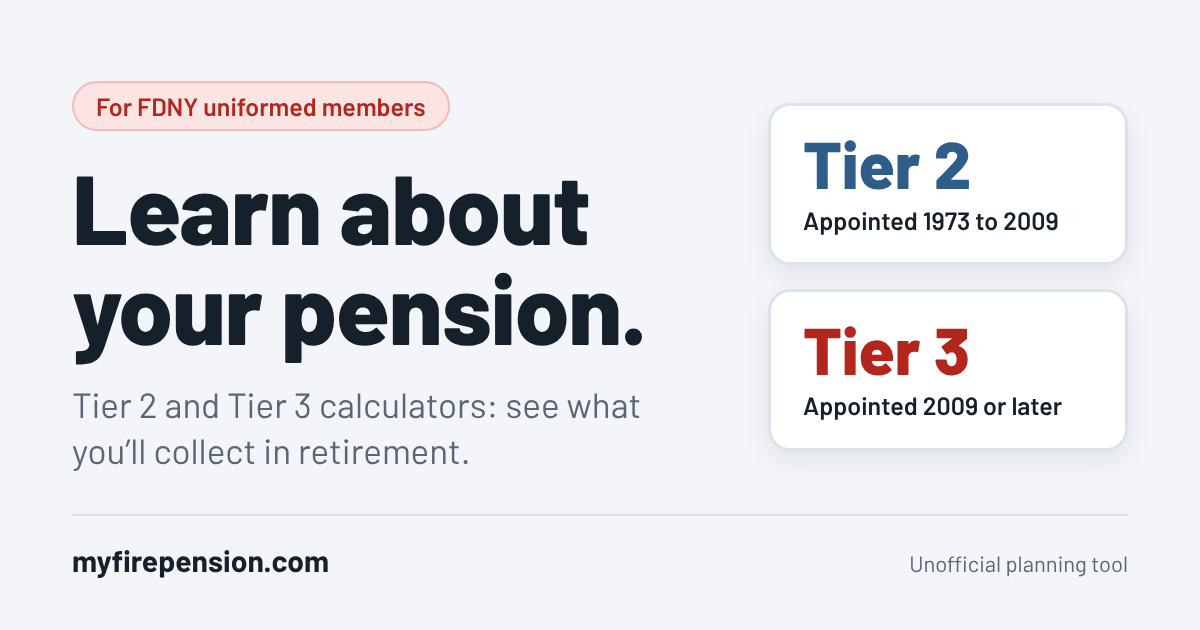
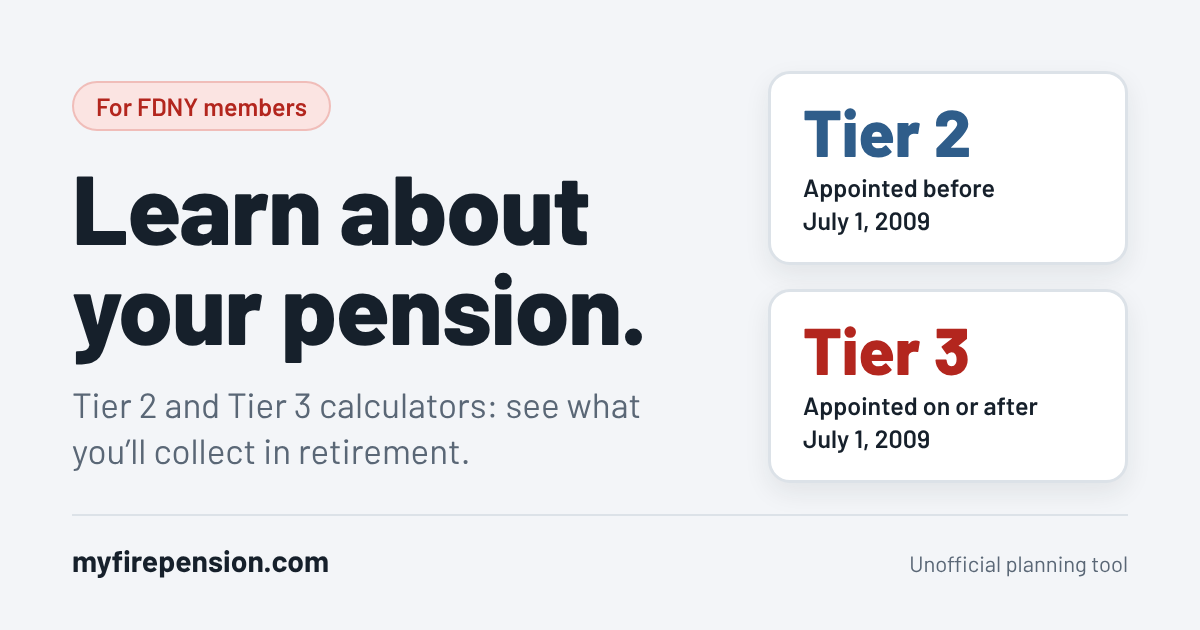
Link previews: match the tier dates and chip to the site (v2.72)
Claude-Session: https://claude.ai/code/session_019rsa7DiXJzH9oBiW284xpR

diff --git a/tier3/index.html b/tier3/index.html
@@ -13,7 +13,7 @@
 <meta property="og:title" content="FDNY Tier 3 Pension · My Fire Pension">
 <meta property="og:description" content="Unofficial guide and calculators for FDNY Tier 3 members: half pay at 20, escalation, the longevity bonus and the VSF.">
 <meta property="og:url" content="https://myfirepension.com/tier3/">
-<meta property="og:image" content="https://myfirepension.com/preview-tier3.png?v=2">
+<meta property="og:image" content="https://myfirepension.com/preview-tier3.png?v=3">
 <meta property="og:image:width" content="1200">
 <meta property="og:image:height" content="630">
 <meta property="og:image:alt" content="Tier 3 pension calculator">
@@ -641,7 +641,7 @@ body.has-pbar .app{padding-bottom:110px}
 <main class="view" id="v-home" data-title="FDNY Tier 3 Pension">
   <div class="hometop"><a class="backbtn" href="/"><svg class="i" viewBox="0 0 24 24"><path d="M3.5 11 12 4l8.5 7"/><path d="M5.5 9.5V20h13V9.5"/><path d="M10 20v-5.5h4V20"/></svg>Home</a>
     <details class="news">
-      <summary>Version <b>2.71</b> <span class="lfull">(click for updates)</span><span class="lshort">(updates)</span></summary>
+      <summary>Version <b>2.72</b> <span class="lfull">(click for updates)</span><span class="lshort">(updates)</span></summary>
       <div class="newsbody">
       <ul>
         <li><time datetime="2026-11-11">11/11/26:</time> Your equated date can now be later than your appointment date. This may apply to members who took LWOP or other extended leaves.</li>
@@ -705,7 +705,7 @@ body.has-pbar .app{padding-bottom:110px}
 
 <!-- ===================== BASICS ===================== -->
 <main class="view" id="v-basics" data-title="Pension basics · FDNY Tier 3" hidden>
-  <div class="topbar"><a class="backbtn" href="#home"><svg class="i" viewBox="0 0 24 24"><path d="M15 6l-6 6 6 6"/></svg>Home</a><span class="tb-title">Pension basics</span><a class="ver" href="/updates/">Version <b>2.71</b> (click for updates)</a></div>
+  <div class="topbar"><a class="backbtn" href="#home"><svg class="i" viewBox="0 0 24 24"><path d="M15 6l-6 6 6 6"/></svg>Home</a><span class="tb-title">Pension basics</span><a class="ver" href="/updates/">Version <b>2.72</b> (click for updates)</a></div>
   <div class="vhead"><h1>Pension basics <span class="tierb" style="--c:var(--accent)">Tier 3</span></h1></div>
 
   <ul class="keys">
@@ -842,7 +842,7 @@ body.has-pbar .app{padding-bottom:110px}
 
 <!-- ===================== BILLS ===================== -->
 <main class="view" id="v-bills" data-title="Bills in Albany · FDNY Tier 3" hidden>
-  <div class="topbar"><a class="backbtn" href="#home"><svg class="i" viewBox="0 0 24 24"><path d="M15 6l-6 6 6 6"/></svg>Home</a><span class="tb-title">Bills in Albany</span><a class="ver" href="/updates/">Version <b>2.71</b> (click for updates)</a></div>
+  <div class="topbar"><a class="backbtn" href="#home"><svg class="i" viewBox="0 0 24 24"><path d="M15 6l-6 6 6 6"/></svg>Home</a><span class="tb-title">Bills in Albany</span><a class="ver" href="/updates/">Version <b>2.72</b> (click for updates)</a></div>
   <div class="vhead"><h1>Bills in Albany <span class="tierb" style="--c:var(--accent)">Tier 3</span></h1><p>Changes to Tier 3 pensions that are being proposed, voted on, or recently passed. A bill becomes law only after the Senate and the Assembly pass it and the governor signs it.</p><p class="hint checked">Status last checked Nov. 5, 2026.</p></div>
   <section class="billgroup" aria-labelledby="bgNow"><h2 id="bgNow">Being considered</h2><div class="bills-list" id="billsNow"></div></section>
   <section class="billgroup" aria-labelledby="bgLaw"><h2 id="bgLaw">Signed into law</h2><div class="bills-list" id="billsLaw"></div></section>
@@ -851,7 +851,7 @@ body.has-pbar .app{padding-bottom:110px}
 
 <!-- ===================== QUICK ===================== -->
 <main class="view" id="v-quick" data-title="Quick calculator · FDNY Tier 3" hidden>
-  <div class="topbar"><a class="backbtn" href="#home"><svg class="i" viewBox="0 0 24 24"><path d="M15 6l-6 6 6 6"/></svg>Home</a><span class="tb-title">Quick calculator</span><a class="ver" href="/updates/">Version <b>2.71</b> (click for updates)</a></div>
+  <div class="topbar"><a class="backbtn" href="#home"><svg class="i" viewBox="0 0 24 24"><path d="M15 6l-6 6 6 6"/></svg>Home</a><span class="tb-title">Quick calculator</span><a class="ver" href="/updates/">Version <b>2.72</b> (click for updates)</a></div>
   <div class="vhead"><h1>Quick calculator <span class="tierb" style="--c:var(--accent)">Tier 3</span></h1><p>Enter your final average salary and your years on the job. That's it.</p></div>
   <div class="qgrid">
     <div class="card calc qa1">
@@ -872,7 +872,7 @@ body.has-pbar .app{padding-bottom:110px}
 
 <!-- ===================== PERSONAL ===================== -->
 <main class="view" id="v-personal" data-title="Your personal numbers · FDNY Tier 3" hidden>
-  <div class="topbar"><a class="backbtn" href="#home"><svg class="i" viewBox="0 0 24 24"><path d="M15 6l-6 6 6 6"/></svg>Home</a><span class="tb-title">Your personal numbers</span><a class="ver" href="/updates/">Version <b>2.71</b> (click for updates)</a></div>
+  <div class="topbar"><a class="backbtn" href="#home"><svg class="i" viewBox="0 0 24 24"><path d="M15 6l-6 6 6 6"/></svg>Home</a><span class="tb-title">Your personal numbers</span><a class="ver" href="/updates/">Version <b>2.72</b> (click for updates)</a></div>
   <div class="vhead"><h1>Your personal numbers <span class="tierb" style="--c:var(--accent)">Tier 3</span></h1><p>Use your real earnings to see what you'll collect, when, and how it grows.</p></div>
   <section class="card preview" id="preview" aria-labelledby="pvh" hidden>
     <p class="pvline" id="pvh">Fill in the 3 steps below to see what your pension will be and how it changes over time. Your results show up <span class="pv-ph">after step 3</span><span class="pv-dt">on the right</span>.</p>

diff --git a/tier2/index.html b/tier2/index.html
@@ -13,7 +13,7 @@
 <meta property="og:title" content="FDNY Tier 2 Pension · My Fire Pension">
 <meta property="og:description" content="Unofficial guide and calculators for FDNY Tier 2 members: half pay at 20, the 1/60th, ITHP and the VSF.">
 <meta property="og:url" content="https://myfirepension.com/tier2/">
-<meta property="og:image" content="https://myfirepension.com/preview-tier2.png?v=2">
+<meta property="og:image" content="https://myfirepension.com/preview-tier2.png?v=3">
 <meta property="og:image:width" content="1200">
 <meta property="og:image:height" content="630">
 <meta property="og:image:alt" content="Tier 2 pension calculator">
@@ -640,7 +640,7 @@ body.has-pbar .app{padding-bottom:110px}
 <main class="view" id="v-home" data-title="FDNY Tier 2 Pension">
   <div class="hometop"><a class="backbtn" href="/"><svg class="i" viewBox="0 0 24 24"><path d="M3.5 11 12 4l8.5 7"/><path d="M5.5 9.5V20h13V9.5"/><path d="M10 20v-5.5h4V20"/></svg>Home</a>
     <details class="news">
-      <summary>Version <b>2.71</b> <span class="lfull">(click for updates)</span><span class="lshort">(updates)</span></summary>
+      <summary>Version <b>2.72</b> <span class="lfull">(click for updates)</span><span class="lshort">(updates)</span></summary>
       <div class="newsbody">
       <ul>
         <li><time datetime="2026-11-11">11/11/26:</time> Your equated date can now be later than your appointment date. This may apply to members who took LWOP or other extended leaves.</li>
@@ -704,7 +704,7 @@ body.has-pbar .app{padding-bottom:110px}
 
 <!-- ===================== BASICS ===================== -->
 <main class="view" id="v-basics" data-title="Pension basics · FDNY Tier 2" hidden>
-  <div class="topbar"><a class="backbtn" href="#home"><svg class="i" viewBox="0 0 24 24"><path d="M15 6l-6 6 6 6"/></svg>Home</a><span class="tb-title">Pension basics</span><a class="ver" href="/updates/">Version <b>2.71</b> (click for updates)</a></div>
+  <div class="topbar"><a class="backbtn" href="#home"><svg class="i" viewBox="0 0 24 24"><path d="M15 6l-6 6 6 6"/></svg>Home</a><span class="tb-title">Pension basics</span><a class="ver" href="/updates/">Version <b>2.72</b> (click for updates)</a></div>
   <div class="vhead"><h1>Pension basics <span class="tierb" style="--c:var(--steel)">Tier 2</span></h1></div>
 
   <ul class="keys">
@@ -853,7 +853,7 @@ body.has-pbar .app{padding-bottom:110px}
 
 <!-- ===================== BILLS ===================== -->
 <main class="view" id="v-bills" data-title="Bills in Albany · FDNY Tier 2" hidden>
-  <div class="topbar"><a class="backbtn" href="#home"><svg class="i" viewBox="0 0 24 24"><path d="M15 6l-6 6 6 6"/></svg>Home</a><span class="tb-title">Bills in Albany</span><a class="ver" href="/updates/">Version <b>2.71</b> (click for updates)</a></div>
+  <div class="topbar"><a class="backbtn" href="#home"><svg class="i" viewBox="0 0 24 24"><path d="M15 6l-6 6 6 6"/></svg>Home</a><span class="tb-title">Bills in Albany</span><a class="ver" href="/updates/">Version <b>2.72</b> (click for updates)</a></div>
   <div class="vhead"><h1>Bills in Albany <span class="tierb" style="--c:var(--steel)">Tier 2</span></h1><p>Changes to Tier 2 pensions that are being proposed, voted on, or recently passed. A bill becomes law only after the Senate and the Assembly pass it and the governor signs it.</p><p class="hint checked">Status last checked Nov. 5, 2026.</p></div>
   <section class="billgroup" aria-labelledby="bgNow"><h2 id="bgNow">Being considered</h2><div class="bills-list" id="billsNow"></div></section>
   <section class="billgroup" aria-labelledby="bgLaw"><h2 id="bgLaw">Signed into law</h2><div class="bills-list" id="billsLaw"></div></section>
@@ -862,7 +862,7 @@ body.has-pbar .app{padding-bottom:110px}
 
 <!-- ===================== QUICK ===================== -->
 <main class="view" id="v-quick" data-title="Quick calculator · FDNY Tier 2" hidden>
-  <div class="topbar"><a class="backbtn" href="#home"><svg class="i" viewBox="0 0 24 24"><path d="M15 6l-6 6 6 6"/></svg>Home</a><span class="tb-title">Quick calculator</span><a class="ver" href="/updates/">Version <b>2.71</b> (click for updates)</a></div>
+  <div class="topbar"><a class="backbtn" href="#home"><svg class="i" viewBox="0 0 24 24"><path d="M15 6l-6 6 6 6"/></svg>Home</a><span class="tb-title">Quick calculator</span><a class="ver" href="/updates/">Version <b>2.72</b> (click for updates)</a></div>
   <div class="vhead"><h1>Quick calculator <span class="tierb" style="--c:var(--steel)">Tier 2</span></h1><p>Enter your final average salary and your years on the job. That's it.</p></div>
   <div class="qgrid">
     <div class="card calc qa1">
@@ -897,7 +897,7 @@ body.has-pbar .app{padding-bottom:110px}
 
 <!-- ===================== PERSONAL ===================== -->
 <main class="view" id="v-personal" data-title="Your personal numbers · FDNY Tier 2" hidden>
-  <div class="topbar"><a class="backbtn" href="#home"><svg class="i" viewBox="0 0 24 24"><path d="M15 6l-6 6 6 6"/></svg>Home</a><span class="tb-title">Your personal numbers</span><a class="ver" href="/updates/">Version <b>2.71</b> (click for updates)</a></div>
+  <div class="topbar"><a class="backbtn" href="#home"><svg class="i" viewBox="0 0 24 24"><path d="M15 6l-6 6 6 6"/></svg>Home</a><span class="tb-title">Your personal numbers</span><a class="ver" href="/updates/">Version <b>2.72</b> (click for updates)</a></div>
   <div class="vhead"><h1>Your personal numbers <span class="tierb" style="--c:var(--steel)">Tier 2</span></h1><p>Use your real earnings to see what you'll collect, and what working longer gets you.</p></div>
   <section class="card preview" id="preview" aria-labelledby="pvh" hidden>
     <p class="pvline" id="pvh">Fill in the 3 steps below to see what your pension will be and how it changes over time. Your results show up <span class="pv-ph">after step 3</span><span class="pv-dt">on the right</span>.</p>

diff --git a/index.html b/index.html
@@ -13,7 +13,7 @@
 <meta property="og:title" content="My Fire Pension">
 <meta property="og:description" content="Unofficial Tier 2 and Tier 3 pension calculators for FDNY members: how your pension works and what you’ll collect in retirement.">
 <meta property="og:url" content="https://myfirepension.com/">
-<meta property="og:image" content="https://myfirepension.com/preview.png?v=2">
+<meta property="og:image" content="https://myfirepension.com/preview.png?v=3">
 <meta property="og:image:width" content="1200">
 <meta property="og:image:height" content="630">
 <meta property="og:image:alt" content="My Fire Pension: Tier 2 and Tier 3 calculators">
@@ -106,7 +106,7 @@ svg.i{width:24px;height:24px;fill:none;stroke:currentColor;stroke-width:2;stroke
   <div class="hometop">
     <span class="chip">For FDNY members</span>
     <details class="news">
-      <summary>Version <b>2.71</b> <span class="lfull">(click for updates)</span><span class="lshort">(updates)</span></summary>
+      <summary>Version <b>2.72</b> <span class="lfull">(click for updates)</span><span class="lshort">(updates)</span></summary>
       <div class="newsbody">
       <ul>
         <li><time datetime="2026-11-11">11/11/26:</time> Your equated date can now be later than your appointment date. This may apply to members who took LWOP or other extended leaves.</li>

diff --git a/suggest/index.html b/suggest/index.html
@@ -106,7 +106,7 @@ a.ver{text-decoration:none}
 </head>
 <body>
 <main class="app">
-  <div class="top"><a class="backbtn" href="/"><svg class="i" viewBox="0 0 24 24"><path d="M15 6l-6 6 6 6"/></svg>Home</a><a class="ver" href="/updates/">Version <b>2.71</b> (click for updates)</a></div>
+  <div class="top"><a class="backbtn" href="/"><svg class="i" viewBox="0 0 24 24"><path d="M15 6l-6 6 6 6"/></svg>Home</a><a class="ver" href="/updates/">Version <b>2.72</b> (click for updates)</a></div>
   <section class="card ask" aria-labelledby="askTitle">
     <h1 id="askTitle">What else would you like to see here?</h1>
     <p>This is a work in progress and I'm happy to add what people want. Send your questions or suggestions.</p>

diff --git a/updates/index.html b/updates/index.html
@@ -111,7 +111,7 @@ button,input,select,textarea{font:inherit;color:inherit}
 </head>
 <body>
 <main class="app">
-  <div class="top"><a class="backbtn" href="/"><svg class="i" viewBox="0 0 24 24"><path d="M15 6l-6 6 6 6"/></svg>Home</a><span class="ver">Version <b>2.71</b></span></div>
+  <div class="top"><a class="backbtn" href="/"><svg class="i" viewBox="0 0 24 24"><path d="M15 6l-6 6 6 6"/></svg>Home</a><span class="ver">Version <b>2.72</b></span></div>
   <section class="card upd" aria-labelledby="updTitle">
     <h1 id="updTitle">Updates and fixes</h1>
     <p class="hint">This website gets better every day. Newest first.</p>

diff --git a/404.html b/404.html
@@ -75,7 +75,7 @@ a.ver{text-decoration:none}
 </head>
 <body>
 <main class="app">
-  <div class="top404"><a class="ver" href="/updates/">Version <b>2.71</b> (click for updates)</a></div>
+  <div class="top404"><a class="ver" href="/updates/">Version <b>2.72</b> (click for updates)</a></div>
   <section class="lost">
     <span class="box"><svg class="i" viewBox="0 0 24 24"><path d="M12 3c3 3.5 6 6.5 6 10.5a6 6 0 0 1-12 0C6 10 8 8.5 9 6c.8 2 2 3 3 3.5C12 7 12 5 12 3z"/></svg>Box 0404</span>
     <h1>Do you have a 10&#8209;7? We got nothing showing. If not, you can make it a 10&#8209;92.</h1>

diff --git a/accounts/index.html b/accounts/index.html
@@ -154,7 +154,7 @@ a.ver{text-decoration:none}
 </head>
 <body>
 <main class="app">
-  <div class="top"><a class="backbtn" href="/"><svg class="i" viewBox="0 0 24 24"><path d="M15 6l-6 6 6 6"/></svg>Home</a><a class="ver" href="/updates/">Version <b>2.71</b> (click for updates)</a></div>
+  <div class="top"><a class="backbtn" href="/"><svg class="i" viewBox="0 0 24 24"><path d="M15 6l-6 6 6 6"/></svg>Home</a><a class="ver" href="/updates/">Version <b>2.72</b> (click for updates)</a></div>
 
   <header class="hero">
     <h1>Your other accounts.</h1>

diff --git a/privacy/index.html b/privacy/index.html
@@ -69,7 +69,7 @@ a.ver{text-decoration:none}
 </head>
 <body>
 <main class="app">
-  <div class="top"><a class="backbtn" href="/"><svg class="i" viewBox="0 0 24 24"><path d="M15 6l-6 6 6 6"/></svg>Home</a><a class="ver" href="/updates/">Version <b>2.71</b> (click for updates)</a></div>
+  <div class="top"><a class="backbtn" href="/"><svg class="i" viewBox="0 0 24 24"><path d="M15 6l-6 6 6 6"/></svg>Home</a><a class="ver" href="/updates/">Version <b>2.72</b> (click for updates)</a></div>
   <article class="doc">
     <div>
       <h1>Privacy</h1>

diff --git a/version.js b/version.js
@@ -1,3 +1,3 @@
 /* Site version. Bump it on every change to the site: node tests/bump.mjs, which also writes it into the three home pages
    (the number is inline there so it always matches the page loaded; a separate script file could come from the browser cache). */
-window.SITE_VERSION = "2.71";
+window.SITE_VERSION = "2.72";

diff --git a/tests/make-previews.py b/tests/make-previews.py
@@ -31,10 +31,10 @@ def page(chip, sub, cards, url):
             '<div class="foot"><b>%s</b><span>Unofficial planning tool</span></div>') % (CSS, chip, sub, one, c, url)
 STEEL, RED = '#2f5d8a', '#b3261e'
 P = {
- 'preview.png': page('For FDNY uniformed members', 'Tier 2 and Tier 3 calculators: see what you’ll collect in retirement.',
-                     [(STEEL, 'Tier 2', 'Appointed 1973 to 2009'), (RED, 'Tier 3', 'Appointed 2009 or later')], 'myfirepension.com'),
+ 'preview.png': page('For FDNY members', 'Tier 2 and Tier 3 calculators: see what you’ll collect in retirement.',
+                     [(STEEL, 'Tier 2', 'Appointed before<br>July 1, 2009'), (RED, 'Tier 3', 'Appointed on or after<br>July 1, 2009')], 'myfirepension.com'),
  'preview-tier2.png': page('For FDNY Tier 2 members', 'Half pay at 20, the 1/60th, ITHP and the VSF, worked out for you.',
-                     [(STEEL, 'Tier 2', 'Appointed July 1, 1973<br>to June 30, 2009')], 'myfirepension.com/tier2'),
+                     [(STEEL, 'Tier 2', 'Appointed before<br>July 1, 2009')], 'myfirepension.com/tier2'),
  'preview-tier3.png': page('For FDNY Tier 3 members', 'Half pay at 20, escalation, the longevity bonus and the VSF, worked out for you.',
                      [(RED, 'Tier 3', 'Appointed on or after<br>July 1, 2009')], 'myfirepension.com/tier3'),
 }

diff --git a/CLAUDE.md b/CLAUDE.md
@@ -15,7 +15,7 @@ This repository is the source of truth. The calculator used to live on a claude.
 - Members' numbers are saved in the browser's localStorage under `fdny-tier3-v2`, on their own device only. "Clear my earnings" at the bottom of the personal calculator erases only earnings (`manual`, `imported`, `extra`, `lodi`, `onetime`, `pays`; mode back to Type in each year) in both `fdny-tier3-v2` and `fdny-tier2-v1`; dates, rank, goal and the rest stay (owner, Nov. 9, 2026: was "Clear my numbers", which wiped everything). Clarity (above) sees page use; the question box sends the message.
 - GitHub Pages serves the `main` branch from the repository root. A push to `main` goes live in a minute or two at https://myfirepension.com (custom domain since Oct. 11, 2026, set by the `CNAME` file; before that tier3pension.com, from Oct. 8, 2026; the old https://emmetsmeehan.github.io/tier3-pension/ address forwards there). Leave `CNAME` in place.
 - Both domains were bought through Cloudflare Registrar, with DNS at Cloudflare. `myfirepension.com`: four A records for `@` (185.199.108.153, .109.153, .110.153, .111.153) and a CNAME `www` → `emmetsmeehan.github.io`, all "DNS only" (grey cloud), which GitHub needs to issue and renew the HTTPS certificate (the owner asked about Cloudflare's proxy warning; keep it grey). A TXT record verifies the domain to the owner's GitHub account, so no one else can point it at their own GitHub site; leave it in place. Turn on "Enforce HTTPS" in the repository's Pages settings once the certificate is issued. `tier3pension.com` keeps its own verification TXT record. Saved numbers in localStorage don't carry over between addresses, since browsers store them per address.
-- Link previews (Oct. 11, 2026): each page (`index.html`, `tier2/`, `tier3/`) has Open Graph tags with absolute `https://myfirepension.com/` URLs and its own 1200×630 image at the root (`preview.png`, `preview-tier2.png`, `preview-tier3.png`), drawn in Barlow by `tests/make-previews.py` (redone Nov. 11, 2026; the `og:image` addresses carry `?v=2` so apps fetch the new pictures: bump it whenever the images change). If the domain or the headline changes, update the tags and redo the images.
+- Link previews (Oct. 11, 2026): each page (`index.html`, `tier2/`, `tier3/`) has Open Graph tags with absolute `https://myfirepension.com/` URLs and its own 1200×630 image at the root (`preview.png`, `preview-tier2.png`, `preview-tier3.png`), drawn in Barlow by `tests/make-previews.py` (redone Nov. 11, 2026; the `og:image` addresses carry `?v=3` so apps fetch the new pictures: bump it whenever the images change). If the domain or the headline changes, update the tags and redo the images.
 - Tab icon (Nov. 6, 2026, owner's art; replaced the Oct. 30 green dollar sign): the red piggy bank with yellow/white/yellow stripes and a gold "FIRE" coin, on a dark (#16171b) background. Flat art the owner made in Grok. Files at the root: `favicon-48.png` and `favicon-32.png` (rounded corners), `favicon.ico` (16/32/48, for browsers that ask for it directly), `apple-touch-icon.png` (180px, square, no transparency). No SVG version (the art is a raster). Linked from every page with root-absolute paths and `?v=3`; bump it when the icon changes, or browsers keep the old one. The same art is the iPhone app's 1024px icon.
 - **iPhone app (Nov. 4, 2026):** the owner is building an iPhone version in a separate Xcode project (`~/code/myfirepension-ios` on his Mac). The code stays completely separate from this site (owner, Nov. 4, 2026: he doesn't want app work to risk breaking the site), but **the rule numbers are shared (owner, Nov. 7, 2026: "share data, not code")**: see "Rules file and test cases" below. The app carries its own copy of the formulas and of the Pension basics wording; when a formula or Pension basics answer changes here, tell the owner the app's copy needs the same change. Number changes in `rules.js` reach the app on its own.
 - **Privacy page (Nov. 7, 2026, owner's request):** `privacy/index.html`, the App Store listing's privacy policy URL. Linked only from a tiny "Privacy" line in the root chooser's footer. It discloses Clarity (replays, cookies, the custom tags with pay amounts) since the app's privacy label does; the calculator pages themselves still don't mention Clarity. If the Clarity tags, Web3Forms or outside resources change, update this page and its "Last updated" date.
@@ -226,4 +226,4 @@ Sources: the full Tiers 1 & 2 Summary Plan Description (Sept. 12, 2014; `pension
 
 ## Typeface: Barlow (Nov. 11, 2026, owner; v2.70)
 
-The owner felt Source Sans 3 made the site look AI-made, compared four options on a hidden `/font-test/` page (Libre Franklin, IBM Plex Sans, Atkinson Hyperlegible, Barlow; now deleted) and picked Barlow. Every page loads `Barlow:wght@400;600;700;800` from Google Fonts and sets `--body:"Barlow",…`; the Tier 3 chart's `ff` too. Checked at 390 and 320px (no sideways overflow). The three link preview images were redone in Barlow the same day (v2.71), same wording. The iPhone app's type is its own.
+The owner felt Source Sans 3 made the site look AI-made, compared four options on a hidden `/font-test/` page (Libre Franklin, IBM Plex Sans, Atkinson Hyperlegible, Barlow; now deleted) and picked Barlow. Every page loads `Barlow:wght@400;600;700;800` from Google Fonts and sets `--body:"Barlow",…`; the Tier 3 chart's `ff` too. Checked at 390 and 320px (no sideways overflow). The three link preview images were redone in Barlow the same day (v2.71), and their wording matched to the site (v2.72): chip "For FDNY members" on the home one, Tier 2 "Appointed before July 1, 2009", Tier 3 "Appointed on or after July 1, 2009" (the 1973 dates are gone). The iPhone app's type is its own.
